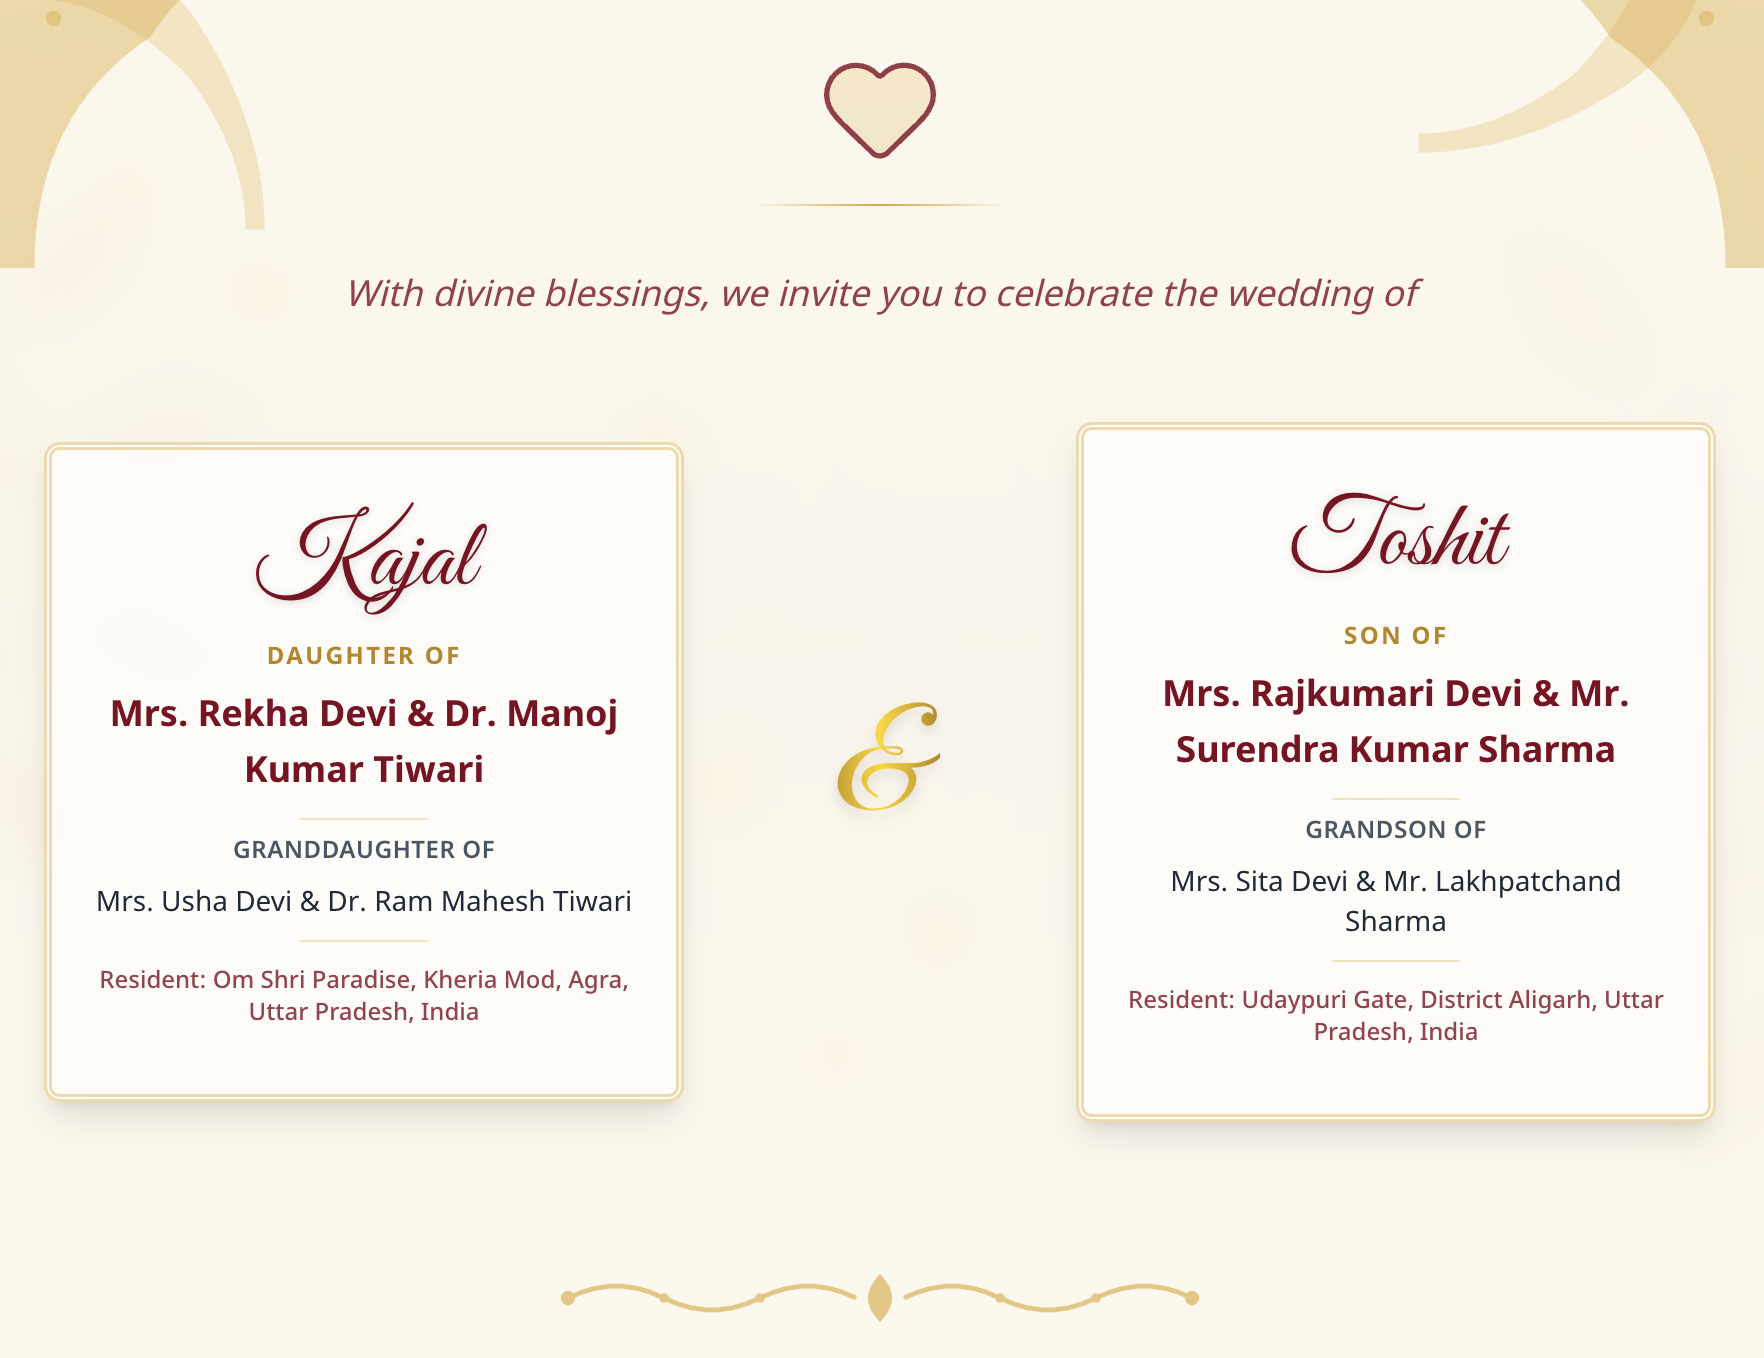
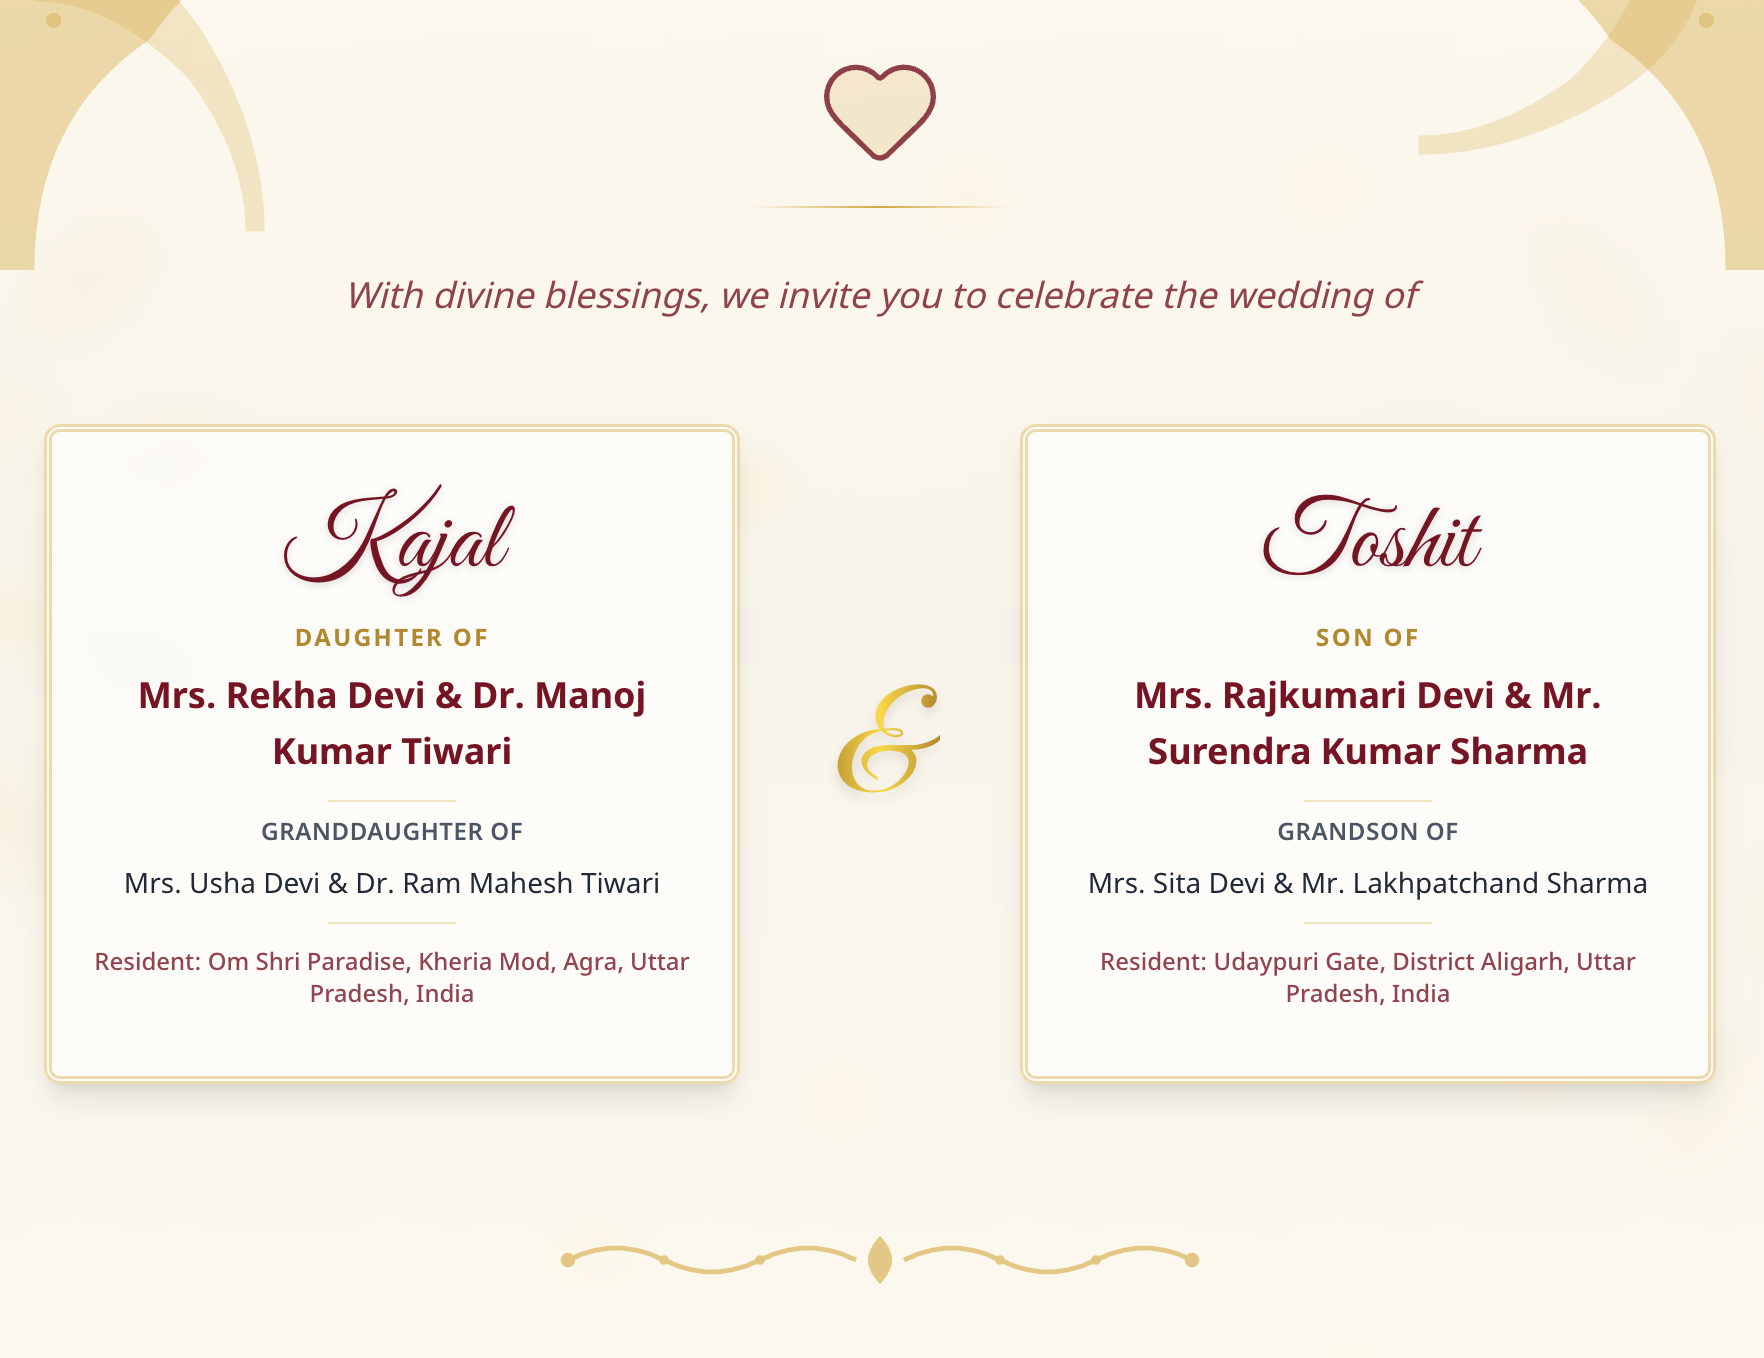
mkx

diff --git a/components/Timeline.tsx b/components/Timeline.tsx
@@ -1,6 +1,5 @@
 "use client";
 
-import { motion } from "framer-motion";
 import { Heart, Calendar, Music, Sun, Car, Utensils, Flower } from "lucide-react";
 import SectionWrapper from "./SectionWrapper";
 import { weddingData } from "@/lib/wedding-data";
@@ -28,7 +27,7 @@ export default function Timeline() {
 
       <div className="relative">
         {/* Vertical Timeline Line - Mobile & Desktop */}
-        <div className="absolute left-6 md:left-1/2 top-0 bottom-0 w-0.5 bg-gradient-to-b from-gold/20 via-gold to-gold/20 md:-translate-x-1/2" />
+        <div className="absolute left-6 md:left-1/2 top-0 bottom-0 w-0.5 bg-linear-to-b from-gold/20 via-gold to-gold/20 md:-translate-x-1/2" />
 
         <div className="space-y-8 md:space-y-12">
           {weddingData.timeline.events.map((event, index) => (
@@ -56,7 +55,7 @@ export default function Timeline() {
                   ? 'md:mr-auto md:pr-0'
                   : 'md:ml-auto md:pl-0'
                   }`}>
-                  <div className="group relative p-5 md:p-6 bg-gradient-to-br from-white via-white to-cream/50 backdrop-blur-sm rounded-xl border-2 border-gold/30 shadow-lg hover:shadow-2xl hover:border-gold/60 transition-all duration-300">
+                  <div className="group relative p-5 md:p-6 bg-linear-to-br from-white via-white to-cream/50 backdrop-blur-sm rounded-xl border-2 border-gold/30 shadow-lg hover:shadow-2xl hover:border-gold/60 transition-all duration-300">
 
                     {/* Decorative Corner Accent */}
                     <div className="absolute top-0 right-0 w-20 h-20 opacity-5 pointer-events-none overflow-hidden rounded-tr-xl">
@@ -66,7 +65,7 @@ export default function Timeline() {
                     </div>
 
                     {/* Subtle Glow Effect */}
-                    <div className="absolute inset-0 rounded-xl bg-gradient-to-br from-gold/5 to-transparent opacity-0 group-hover:opacity-100 transition-opacity duration-300" />
+                    <div className="absolute inset-0 rounded-xl bg-linear-to-br from-gold/5 to-transparent opacity-0 group-hover:opacity-100 transition-opacity duration-300" />
 
                     <div className="relative z-10">
                       {/* Title */}
@@ -76,7 +75,7 @@ export default function Timeline() {
 
                       {/* Date */}
                       <div className="flex items-center text-gold-dark font-medium text-sm md:text-base mb-3 pb-3 border-b border-gold/20">
-                        <Calendar className="w-4 h-4 mr-2 flex-shrink-0" />
+                        <Calendar className="w-4 h-4 mr-2 shrink-0" />
                         <time>{event.date}</time>
                       </div>
 

diff --git a/components/HeroSection.tsx b/components/HeroSection.tsx
@@ -21,7 +21,7 @@ export default function HeroSection() {
             strokeWidth={1}
           />
         </div>
-        <div className="h-px w-32 bg-gradient-to-r from-transparent via-gold to-transparent mx-auto mt-4" />
+        <div className="h-px w-32 bg-linear-to-r from-transparent via-gold to-transparent mx-auto mt-4" />
       </motion.div>
 
       <SectionWrapper delay={0.2}>
@@ -30,9 +30,9 @@ export default function HeroSection() {
         </p>
       </SectionWrapper>
 
-      <div className="flex flex-col md:flex-row items-center justify-center gap-8 md:gap-12">
+      <div className="flex flex-col md:flex-row items-center justify-center gap-5">
         {/* Bride */}
-        <SectionWrapper delay={0.4} className="w-full max-w-md">
+        <SectionWrapper delay={0.4} className="w-full max-w-122.5">
           <div className="relative py-8 px-5 border-4 border-double border-gold/40 bg-white/40 backdrop-blur-sm rounded-lg hover:bg-white/50 transition-colors duration-300 shadow-lg">
             <h2 className="text-4xl md:text-5xl text-maroon mb-4 drop-shadow-sm font-name">
               {weddingData.bride.name}
@@ -60,7 +60,7 @@ export default function HeroSection() {
         </SectionWrapper>
 
         {/* Groom */}
-        <SectionWrapper delay={0.8} className="w-full max-w-md">
+        <SectionWrapper delay={0.8} className="w-full max-w-122.5">
           <div className="relative py-8 px-5 border-4 border-double border-gold/40 bg-white/40 backdrop-blur-sm rounded-lg hover:bg-white/50 transition-colors duration-300 shadow-lg">
             <h2 className="text-4xl md:text-5xl text-maroon mb-4 drop-shadow-sm font-name">
               {weddingData.groom.name}

diff --git a/components/Venue.tsx b/components/Venue.tsx
@@ -9,7 +9,7 @@ export default function Venue() {
   return (
     <SectionWrapper className="py-12 px-6 text-center max-w-3xl mx-auto">
       <div className="flex flex-col items-center p-8 border-4 border-double border-gold/30 rounded-lg bg-white/30 backdrop-blur-sm shadow-lg">
-        <div className="w-16 h-16 rounded-full bg-gradient-to-br from-maroon to-red-900 text-gold border-2 border-gold flex items-center justify-center mb-6 shadow-lg">
+        <div className="w-16 h-16 rounded-full bg-linear-to-br from-maroon to-red-900 text-gold border-2 border-gold flex items-center justify-center mb-6 shadow-lg">
           <MapPin size={32} />
         </div>
 
@@ -29,7 +29,7 @@ export default function Venue() {
           href={weddingData.venue.mapUrl}
           target="_blank"
           rel="noopener noreferrer"
-          className="inline-flex items-center gap-2 px-8 py-3 bg-gradient-to-r from-maroon to-red-900 text-gold rounded-full font-semibold shadow-lg hover:shadow-xl hover:scale-105 transition-all duration-300 border border-gold/50"
+          className="inline-flex items-center gap-2 px-8 py-3 bg-linear-to-r from-maroon to-red-900 text-gold rounded-full font-semibold shadow-lg hover:shadow-xl hover:scale-105 transition-all duration-300 border border-gold/50"
         >
           <MapPin size={18} />
           View on Google Maps

diff --git a/components/Countdown.tsx b/components/Countdown.tsx
@@ -41,7 +41,7 @@ export default function Countdown() {
 
   const TimeUnit = ({ value, label }: { value: number; label: string }) => (
     <div className="flex flex-col items-center mx-2 md:mx-4">
-      <div className="bg-gradient-to-br from-maroon to-red-900 border-2 border-gold w-16 h-16 md:w-20 md:h-20 rounded-lg flex items-center justify-center mb-2 shadow-xl relative overflow-hidden group">
+      <div className="bg-linear-to-br from-maroon to-red-900 border-2 border-gold w-16 h-16 md:w-20 md:h-20 rounded-lg flex items-center justify-center mb-2 shadow-xl relative overflow-hidden group">
         <div className="absolute inset-0 bg-[url('https://www.transparenttextures.com/patterns/black-scales.png')] opacity-20" />
         <span className="text-2xl md:text-3xl font-bold text-gold font-serif relative z-10 drop-shadow-md group-hover:scale-110 transition-transform duration-300">
           {value.toString().padStart(2, "0")}
